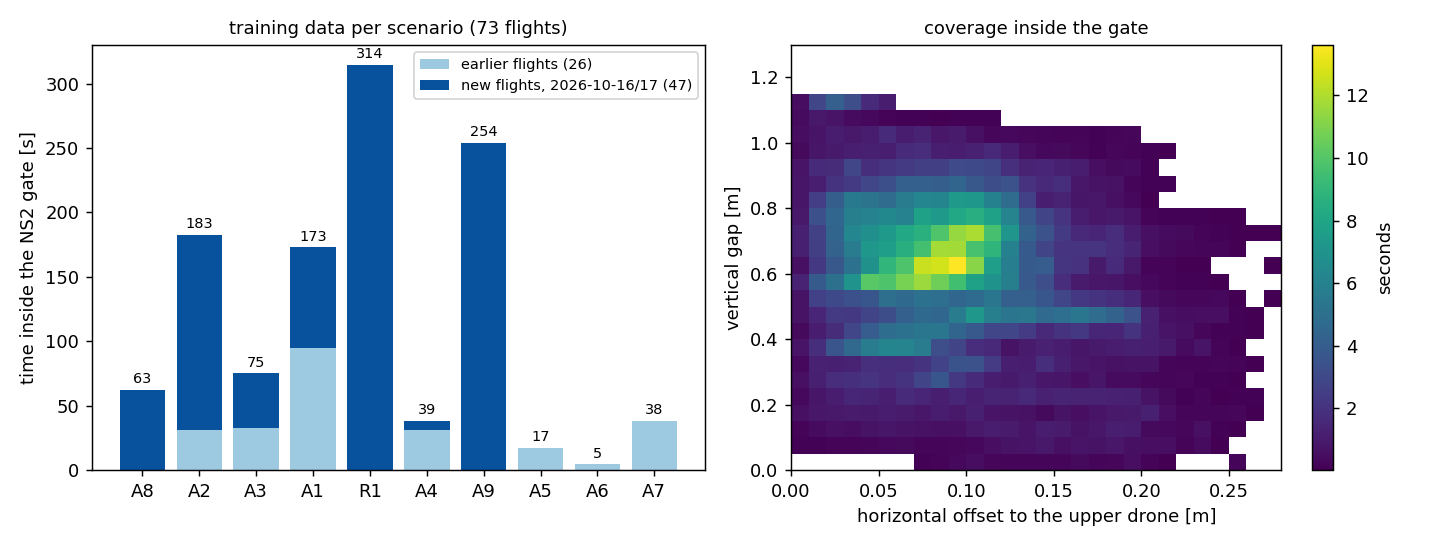
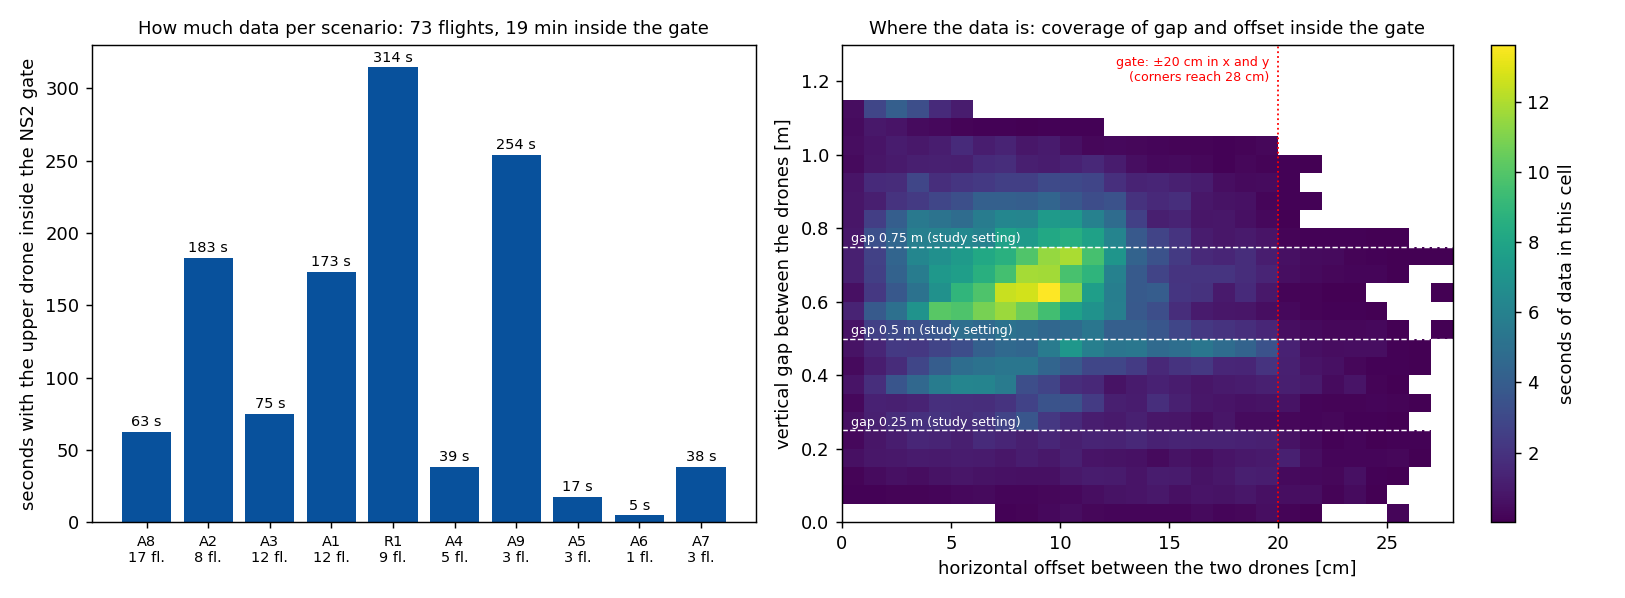
Meeting doc: std whiskers and band, plot-method explanations, section 5 as one table, short questions and next steps

Changed region(s): [[0.0, 0.0311, 0.9846, 0.9652], [0.0, 0.0934, 0.0615, 0.7161]]

diff --git a/experiments/analysis/ns2_v2_data_summary.py b/experiments/analysis/ns2_v2_data_summary.py
@@ -16,24 +16,28 @@ for e in man:
     g = d[gate]; allg.append(pd.DataFrame(dict(scenario=e["scenario"], new=new, z0=g.z0.values, r0=g.r0.values)))
 R = pd.DataFrame(rows); G = pd.concat(allg)
 WHAT = {"A8": ("two drones swap sides (crossing)", "dz 0.25 / 0.5 / 0.75 m × peak speed 0.1–0.5 m/s"), "A2": ("stacked circle, radius 0.40 m", "dz 0.5 m × speed 0.1–0.5 m/s"),
-        "A3": ("static top drone, bottom shuttles under it", "dz 0.5 m × speed 0.1–0.5 m/s (+ earlier flights)"), "A1": ("stacked hold", "dz 0.25 / 0.375 / 0.5 / 0.625 / 0.75 m"),
+        "A3": ("static top drone, bottom shuttles under it", "dz 0.5 m × speed 0.1–0.5 m/s"), "A1": ("stacked hold", "dz 0.25 / 0.375 / 0.5 / 0.625 / 0.75 m"),
         "R1": ("random waypoints, stack-biased", "9 seeds, bias 0.7, dz 0.25–0.75 m"), "A4": ("bottom offset sideways, shuttles along a line", "offset 0–0.15 m, dz 0.25–0.75 m, speed 0.3–0.5 m/s"),
-        "A9": ("nine A4 settings chained in one flight", "dz 0.25 / 0.5 / 0.75 × offset 0 / 0.1 / 0.15 m"), "A5": ("reverse circle (earlier flights)", "earlier data only"),
-        "A6": ("(earlier flight)", "earlier data only"), "A7": ("descend through the lower drone (earlier flights)", "earlier data only")}
-L = ["| Scenario | What it is | Settings covered | Flights (new + earlier) | Flight time | Time in the NS2 gate |", "|---|---|---|---|---|---|"]
+        "A9": ("nine A4 settings chained in one flight", "dz 0.25 / 0.5 / 0.75 × offset 0 / 0.1 / 0.15 m"), "A5": ("reverse circle (stacked, counter-moving)", "circle radius 0.40 m"),
+        "A6": ("high-risk setting (single flight)", "1 flight"), "A7": ("upper drone descends through the lower one", "gap 1.1 → 0.1 m")}
+L = ["| Scenario | What it is | Settings covered | Flights | Flight time | Time in the NS2 gate |", "|---|---|---|---|---|---|"]
 for sc in ["A8", "A2", "A3", "A1", "R1", "A4", "A9", "A5", "A6", "A7"]:
     r = R[R.scenario == sc]; 
     if r.empty: continue
-    n_new, n_old = int(r.new.sum()), int((~r.new).sum())
-    L.append(f"| {sc} | {WHAT[sc][0]} | {WHAT[sc][1]} | {n_new + n_old} ({n_new} + {n_old}) | {r.flight_s.sum() / 60:.1f} min | {r.gate_s.sum():.0f} s |")
-L.append(f"| **all** | | | **{len(R)}** ({int(R.new.sum())} + {int((~R.new).sum())}) | **{R.flight_s.sum() / 60:.1f} min** | **{R.gate_s.sum():.0f} s** |")
+    L.append(f"| {sc} | {WHAT[sc][0]} | {WHAT[sc][1]} | {len(r)} | {r.flight_s.sum() / 60:.1f} min | {r.gate_s.sum():.0f} s |")
+L.append(f"| **all** | | | **{len(R)}** | **{R.flight_s.sum() / 60:.1f} min** | **{R.gate_s.sum():.0f} s** |")
 print("\n".join(L)); print("gap in the gate: median %.2f m, 5-95 %% %.2f–%.2f m; lateral offset in the gate: median %.3f m" % (G.z0.median(), G.z0.quantile(.05), G.z0.quantile(.95), G.r0.median()))
 Path(REPO / "experiments/results/ns2_v2_data_summary.md").write_text("\n".join(L) + "\n")
-fig, ax = plt.subplots(1, 2, figsize=(11, 4.2)); scs = [s for s in ["A8", "A2", "A3", "A1", "R1", "A4", "A9", "A5", "A6", "A7"] if s in set(R.scenario)]
-new = [R[(R.scenario == s) & R.new].gate_s.sum() for s in scs]; old = [R[(R.scenario == s) & ~R.new].gate_s.sum() for s in scs]
-ax[0].bar(scs, old, color="#9ecae1", label="earlier flights (26)"); ax[0].bar(scs, new, bottom=old, color="#08519c", label="new flights, 2026-10-16/17 (47)")
-for i, (o, n) in enumerate(zip(old, new)): ax[0].text(i, o + n + 5, f"{o + n:.0f}", ha="center", fontsize=8)
-ax[0].set_ylabel("time inside the NS2 gate [s]"); ax[0].set_title("training data per scenario (73 flights)", fontsize=10); ax[0].legend(fontsize=8)
-h = ax[1].hist2d(G.r0, G.z0, bins=[np.linspace(0, 0.28, 29), np.linspace(0, 1.3, 27)], weights=np.full(len(G), DT), cmap="viridis", cmin=0.01)
-fig.colorbar(h[3], ax=ax[1], label="seconds"); ax[1].set_xlabel("horizontal offset to the upper drone [m]"); ax[1].set_ylabel("vertical gap [m]"); ax[1].set_title("coverage inside the gate", fontsize=10)
+fig, ax = plt.subplots(1, 2, figsize=(12.5, 4.6), gridspec_kw={"width_ratios": [1, 1.15]})
+scs = [x for x in ["A8", "A2", "A3", "A1", "R1", "A4", "A9", "A5", "A6", "A7"] if x in set(R.scenario)]
+vals = [R[R.scenario == x].gate_s.sum() for x in scs]; ns = [int((R.scenario == x).sum()) for x in scs]
+ax[0].bar(range(len(scs)), vals, color="#08519c")
+for i_, (v_, n_) in enumerate(zip(vals, ns)): ax[0].text(i_, v_ + 4, f"{v_:.0f} s", ha="center", fontsize=8)
+ax[0].set_xticks(range(len(scs))); ax[0].set_xticklabels([f"{x}\n{n_} fl." for x, n_ in zip(scs, ns)], fontsize=8)
+ax[0].set_ylabel("seconds with the upper drone inside the NS2 gate"); ax[0].set_title(f"How much data per scenario: {len(R)} flights, {R.gate_s.sum() / 60:.0f} min inside the gate", fontsize=10)
+h = ax[1].hist2d(G.r0 * 100, G.z0, bins=[np.linspace(0, 28, 29), np.linspace(0, 1.3, 27)], weights=np.full(len(G), DT), cmap="viridis", cmin=0.01)
+cb = fig.colorbar(h[3], ax=ax[1]); cb.set_label("seconds of data in this cell")
+for dz_ in (0.25, 0.5, 0.75): ax[1].axhline(dz_, color="w", ls="--", lw=.8); ax[1].text(0.4, dz_ + 0.012, f"gap {dz_} m (study setting)", color="w", ha="left", fontsize=7)
+ax[1].axvline(20, color="r", ls=":", lw=1); ax[1].text(19.6, 1.27, "gate: ±20 cm in x and y\n(corners reach 28 cm)", color="r", ha="right", va="top", fontsize=7)
+ax[1].set_xlabel("horizontal offset between the two drones [cm]"); ax[1].set_ylabel("vertical gap between the drones [m]"); ax[1].set_title("Where the data is: coverage of gap and offset inside the gate", fontsize=10)
 fig.tight_layout(); fig.savefig(REPO / "docs/meetings/assets/2026-10-19/ns2_v2_data.png", dpi=130)

diff --git a/experiments/analysis/build_meeting_results.py b/experiments/analysis/build_meeting_results.py
@@ -5,7 +5,7 @@ import json
 from pathlib import Path
 REPO = Path(__file__).resolve().parents[2]
 S = json.load(open(REPO / "experiments/results/unified_overview_2026-10-20/summary.json")); a8, a1, a4 = S["A8"], S["A1"], S["A4"]
-p = REPO / "docs/meetings/2026-10-22.md"; m = p.read_text(); tail = m[m.index("## 5. NS2 v2: what was flown"):]
+p = REPO / "docs/meetings/2026-10-22.md"; m = p.read_text(); tail = ""
 def c(s, k): d = a4[k][s]; return f"{d['mean']:.1f} cm (n={d['n']})" if d["n"] else "–"
 def f(x, sign=False): return (f"{x:+.1f}" if sign else f"{x:.1f}").replace("-", "−")
 a8n = sum(a8[k]['n'] for k in a8); a1n = sum(a1[k]['n'] for k in a1); a4n = sum(a4[o][k]['n'] for o in a4 for k in a4[o])
@@ -43,7 +43,7 @@ Notation: `z` = measured height, `z_cmd` = commanded height, `e_z = z − z_cmd`
 
 ![A8 dip, A1 mean z error and A4 z RMS per strategy](assets/2026-10-19/overview.png)
 
-- Pilot data: n = 3–7 per cell, one lab, two drones; the spread between flights is shown as dots (A8, A1) and error bars (A4).
+- Pilot data: n = 3–7 per cell, one lab, two drones. Bars = mean over flights, whisker = ± std between flights, dots = single flights (A4: whiskers only).
 - S3 A8: two further flights on a draining battery are excluded.
 - Full tables: `docs/tree_comparison_2026-10-19.md` (§9), per-flight tables `docs/lab_sessions/2026-10-20.md`.
 
@@ -57,7 +57,8 @@ Notation: `z` = measured height, `z_cmd` = commanded height, `e_z = z − z_cmd`
 
 ![height error around the crossing, mean over the crossings per strategy (all flights)](assets/2026-10-19/A8_crossing_profile.png)
 
-- Crossing dip: lowest z error of a crossing, relative to the steady offset (negative = too low).
+- **How the profile plot is made:** all A8 flights of a strategy, 4 crossings each; for every crossing the z error from −2 to +2 s around the zero-crossing of y, steady offset of that flight removed. Thick line = mean over all crossings (n flights × 4), shaded = ± 1 std between crossings.
+- **Table and bars:** crossing dip = lowest point of a crossing, averaged per flight; mean = over flights, std = between flights (bars: whiskers = std, dots = flights).
 - S1 has the largest spread: its fourth flight ran at 3.4 V loaded and dipped −12.4 cm; the other three −6.3 … −8.1 cm.
 - Only the INDI strategies use the full motor range (100 %).
 
@@ -71,6 +72,7 @@ Notation: `z` = measured height, `z_cmd` = commanded height, `e_z = z − z_cmd`
 
 ![A1 hold: z error over time per strategy, and mean z error per strategy (all flights)](assets/2026-10-19/A1_comparison.png)
 
+- **How the plot is made:** left: z error of every flight over the 15 s hold (window 2–15 s of the flight, time zero = start of the hold); thick line = mean over the strategy's flights at each time, shaded = ± 1 std between flights. Right: mean z error of each flight (dots), bar = mean over flights, whisker = std between flights.
 - Geometric strategies sag in the hold and tilt up to 42°; NS2 halves the sag.
 - S3 starts about +13 cm high (takeoff overshoot, gone after ~4 s).
 
@@ -87,7 +89,31 @@ z RMS in cm, mean ± std over flights (n):
 - Offset 0.0 was dropped (it repeats A1 and A8).
 
 """
-old_fbl = [l for l in tail.split("\n") if l.startswith("- **FBL controller follow-up questions/missing parts:**")]
+old_fbl = []
+_ = [l for l in tail.split("\n") if l.startswith("- **FBL controller follow-up questions/missing parts:**")]
 if old_fbl:
     tail = tail.replace(old_fbl[0], "- **FBL controller (part of the study):** desk part of the port done (own fit, simulation, C code tested against the authors' code, firmware branch built, not flown yet); waiting for the authors' training script and flight gains")
+tail = """## 5. NS2 v2: what was flown
+- All flights together (73), geometric controller, labels from the deck RPM. Gate: upper drone above and within 0.2 m in x and y, where the network acts.
+
+""" + (REPO / "experiments/results/ns2_v2_data_summary.md").read_text().strip().replace("## 5. NS2 v2: what was flown\n", "") + """
+
+![NS2 v2 data: gate time per scenario (left), coverage of vertical gap and horizontal offset (right)](assets/2026-10-19/ns2_v2_data.png)
+
+- **Left:** seconds inside the gate per scenario. R1, A9, A2, A1 give most of it.
+- **Right:** seconds of data per cell, horizontal offset (x) against vertical gap (y). Dashed lines = study gaps 0.25 / 0.5 / 0.75 m; red dotted = gate edge (±20 cm in x and y, corners reach 28 cm).
+- Vertical gap in the gate: median 0.62 m; horizontal offset: median 0.09 m.
+- Leave-one-flight-out: 69 of 73 flights pass; new flights fit better than v1 on 47 of 47.
+
+---
+
+## Questions:
+- **NS2 execution context:** today inline in the controller, 100 Hz, 526 µs = 26 % of the 2 ms slot. Your idea: separate low-priority task + queue. I did not find it in any repo — which one did you mean?
+- **Decision:** keep inline for the two-drone study, or parallel task now?
+
+## Next Steps:
+- **Study:** freeze protocol, start tier-1 two-drone study, then three vehicles
+- **Hardware:** new drone pair, NS2 frozen
+- **FBL (part of the study):** desk part done, waiting for the authors' training script and gains
+"""
 p.write_text(head + tail)

diff --git a/experiments/analysis/unified_plots.py b/experiments/analysis/unified_plots.py
@@ -26,7 +26,7 @@ for s in ORDER:
     prof = np.array(prof); m, sd = prof.mean(0), prof.std(0); n = sum(1 for r, _ in a8 if r["name"] == s)
     ax.plot(tau, m, color=COL[s], lw=2, label=f"{LAB[s]} (n={n} flights, {len(prof)} crossings)"); ax.fill_between(tau, m - sd, m + sd, color=COL[s], alpha=.12)
 ax.axvline(0, color="k", lw=.5); ax.axhline(0, color="k", lw=.5); ax.set_xlabel("time from the crossing [s]"); ax.set_ylabel("bottom z error, steady offset removed [cm]"); ax.legend(fontsize=8, loc="lower left")
-ax.set_title("A8 swap, dz 0.5 m, 0.5 m/s: height error around the crossing (mean ± std over the crossings)", fontsize=9); fig.tight_layout(); fig.savefig(FIG / "A8_crossing_profile.png", dpi=130)
+ax.set_title("A8 swap, dz 0.5 m, 0.5 m/s: height error around the crossing\nthick line = mean over all crossings of the strategy, shaded band = ± 1 std between crossings", fontsize=9); fig.tight_layout(); fig.savefig(FIG / "A8_crossing_profile.png", dpi=130)
 # ---- A1
 a1 = []
 for bank, res in (("bank_a1clean_2026-10-19", "a1_2026-10-19"), ("bank_pilot2_2026-10-20", "pilot2_2026-10-20"), ("bank_pilot3_2026-10-20", "pilot3_2026-10-20"), ("bank_pilot5_2026-10-20", "pilot5_2026-10-20"), ("bank_video_2026-10-20", "video_2026-10-20")):
@@ -37,11 +37,11 @@ for s in ORDER:
     for r, p in a1:
         if r["strategy"] != s: continue
         t, ez, _ = bottom_ez(p); prof.append(100 * np.interp(tg, t, ez))
-    prof = np.array(prof); ax[0].plot(tg, prof.mean(0), color=COL[s], lw=2, label=f"{LAB[s]} (n={len(prof)})"); ax[0].fill_between(tg, prof.min(0), prof.max(0), color=COL[s], alpha=.12)
-ax[0].axhline(0, color="k", lw=.5); ax[0].set_xlabel("time in the hold [s]"); ax[0].set_ylabel("bottom z error [cm] (mean, band = min..max over flights)"); ax[0].legend(fontsize=8, loc="upper right"); ax[0].set_title("A1 stacked hold: z error over time", fontsize=10)
+    prof = np.array(prof); m_, sd_ = prof.mean(0), prof.std(0); ax[0].plot(tg, m_, color=COL[s], lw=2, label=f"{LAB[s]} (n={len(prof)} flights)"); ax[0].fill_between(tg, m_ - sd_, m_ + sd_, color=COL[s], alpha=.15)
+ax[0].axhline(0, color="k", lw=.5); ax[0].set_xlabel("time in the hold [s]"); ax[0].set_ylabel("bottom z error [cm]"); ax[0].legend(fontsize=8, loc="upper right"); ax[0].set_title("A1 stacked hold: z error over time", fontsize=10)
 for i, s in enumerate(ORDER):
-    v = [r["z_mean_cm"] for r, _ in a1 if r["strategy"] == s]; ax[1].bar(i, np.mean(v), color=COL[s], alpha=.4, width=.6)
+    v = [r["z_mean_cm"] for r, _ in a1 if r["strategy"] == s]; ax[1].bar(i, np.mean(v), color=COL[s], alpha=.4, width=.6, yerr=np.std(v, ddof=1), capsize=4, error_kw=dict(ecolor="k", lw=1.2))
     ax[1].scatter([i + (j - (len(v) - 1) / 2) * .07 for j in range(len(v))], v, color=COL[s], s=18, zorder=3)
-ax[1].set_xticks(range(4)); ax[1].set_xticklabels([f"{LAB[s].replace(' + ', chr(10) + '+ ').replace('geometric', 'geom.')}\n{np.mean([r['z_mean_cm'] for r, _ in a1 if r['strategy'] == s]):+.1f} cm" for s in ORDER], fontsize=7.5)
-ax[1].axhline(0, color="k", lw=.5); ax[1].set_ylabel("mean z error in the hold [cm] (dots = flights)"); ax[1].set_title("mean per strategy", fontsize=10)
-fig.suptitle("A1 stacked hold, dz 0.5 m: all pilot flights (uSD only)", fontsize=9); fig.tight_layout(); fig.savefig(FIG / "A1_comparison.png", dpi=130); print("ok", {s: sum(1 for r, _ in a1 if r["strategy"] == s) for s in ORDER}, {s: sum(1 for r, _ in a8 if r["name"] == s) for s in ORDER})
+ax[1].set_xticks(range(4)); ax[1].set_xticklabels([f"{LAB[s].replace(' + ', chr(10) + '+ ').replace('geometric', 'geom.')}\n{np.mean([r['z_mean_cm'] for r, _ in a1 if r['strategy'] == s]):+.1f} ± {np.std([r['z_mean_cm'] for r, _ in a1 if r['strategy'] == s], ddof=1):.1f} cm" for s in ORDER], fontsize=7.5)
+ax[1].axhline(0, color="k", lw=.5); ax[1].set_ylabel("mean z error in the hold [cm]\nbar = mean, whisker = ± std between flights, dots = flights", fontsize=8); ax[1].set_title("mean per strategy", fontsize=10)
+fig.suptitle("A1 stacked hold, dz 0.5 m, all pilot flights (uSD only). Left: per strategy, thick line = mean over its flights at each time, shaded band = ± 1 std between flights", fontsize=9); fig.tight_layout(); fig.savefig(FIG / "A1_comparison.png", dpi=130); print("ok", {s: sum(1 for r, _ in a1 if r["strategy"] == s) for s in ORDER}, {s: sum(1 for r, _ in a8 if r["name"] == s) for s in ORDER})

diff --git a/experiments/analysis/unified_overview.py b/experiments/analysis/unified_overview.py
@@ -41,11 +41,11 @@ for o in (0.05, 0.10, 0.15):
 fig, ax = plt.subplots(1, 3, figsize=(14, 4.2), gridspec_kw={"width_ratios": [1, 1, 1.4]})
 for i, s in enumerate(ORDER):
     for k, key, sgn in ((0, "A8", 1), (1, "A1", 1)):
-        d = S[key][s]; ax[k].bar(i, d["mean"], color=COL[s], alpha=.4, width=.6)
+        d = S[key][s]; ax[k].bar(i, d["mean"], color=COL[s], alpha=.4, width=.6, yerr=d["std"], capsize=4, error_kw=dict(ecolor="k", lw=1.2))
         pts = d["per_flight"]; ax[k].scatter([i + (j - (len(pts) - 1) / 2) * .07 for j in range(len(pts))], pts, color=COL[s], s=18, zorder=3)
-for k, (key, t, y) in enumerate((("A8", "A8 swap: height dip at the crossing", "z error at the crossing [cm]"), ("A1", "A1 stacked hold: mean height error", "mean z error in the hold [cm]"))):
-    M = [S[key][s]["mean"] for s in ORDER]; N = [S[key][s]["n"] for s in ORDER]
-    ax[k].set_xticks(range(4)); ax[k].set_xticklabels([f"{LAB[s].replace(' + ', chr(10) + '+ ').replace('geometric', 'geom.')}\n{m:+.1f} cm\n(n={n})" for s, m, n in zip(ORDER, M, N)], fontsize=7.5); ax[k].axhline(0, color="k", lw=.6); ax[k].set_title(t, fontsize=10); ax[k].set_ylabel(y, fontsize=8)
+for k, (key, t, y) in enumerate((("A8", "A8 swap: height dip at the crossing", "dip per flight [cm]"), ("A1", "A1 stacked hold: mean height error", "mean z error in the hold [cm]"))):
+    M = [S[key][s]["mean"] for s in ORDER]; N = [S[key][s]["n"] for s in ORDER]; SD = [S[key][s]["std"] for s in ORDER]
+    ax[k].set_xticks(range(4)); ax[k].set_xticklabels([f"{LAB[s].replace(' + ', chr(10) + '+ ').replace('geometric', 'geom.')}\n{m:+.1f} ± {sd:.1f} cm\n(n={n} flights)" for s, m, sd, n in zip(ORDER, M, SD, N)], fontsize=7.5); ax[k].axhline(0, color="k", lw=.6); ax[k].set_title(t, fontsize=10); ax[k].set_ylabel(y + "\nbar = mean, black whisker = ± std between flights, dots = flights", fontsize=7.5)
 w = .2
 for j, s in enumerate(ORDER):
     xs, ys, es = [], [], []

diff --git a/docs/meetings/2026-10-22.md b/docs/meetings/2026-10-22.md
@@ -26,7 +26,7 @@ Notation: `z` = measured height, `z_cmd` = commanded height, `e_z = z − z_cmd`
 
 ![A8 dip, A1 mean z error and A4 z RMS per strategy](assets/2026-10-19/overview.png)
 
-- Pilot data: n = 3–7 per cell, one lab, two drones; the spread between flights is shown as dots (A8, A1) and error bars (A4).
+- Pilot data: n = 3–7 per cell, one lab, two drones. Bars = mean over flights, whisker = ± std between flights, dots = single flights (A4: whiskers only).
 - S3 A8: two further flights on a draining battery are excluded.
 - Full tables: `docs/tree_comparison_2026-10-19.md` (§9), per-flight tables `docs/lab_sessions/2026-10-20.md`.
 
@@ -40,7 +40,8 @@ Notation: `z` = measured height, `z_cmd` = commanded height, `e_z = z − z_cmd`
 
 ![height error around the crossing, mean over the crossings per strategy (all flights)](assets/2026-10-19/A8_crossing_profile.png)
 
-- Crossing dip: lowest z error of a crossing, relative to the steady offset (negative = too low).
+- **How the profile plot is made:** all A8 flights of a strategy, 4 crossings each; for every crossing the z error from −2 to +2 s around the zero-crossing of y, steady offset of that flight removed. Thick line = mean over all crossings (n flights × 4), shaded = ± 1 std between crossings.
+- **Table and bars:** crossing dip = lowest point of a crossing, averaged per flight; mean = over flights, std = between flights (bars: whiskers = std, dots = flights).
 - S1 has the largest spread: its fourth flight ran at 3.4 V loaded and dipped −12.4 cm; the other three −6.3 … −8.1 cm.
 - Only the INDI strategies use the full motor range (100 %).
 
@@ -54,6 +55,7 @@ Notation: `z` = measured height, `z_cmd` = commanded height, `e_z = z − z_cmd`
 
 ![A1 hold: z error over time per strategy, and mean z error per strategy (all flights)](assets/2026-10-19/A1_comparison.png)
 
+- **How the plot is made:** left: z error of every flight over the 15 s hold (window 2–15 s of the flight, time zero = start of the hold); thick line = mean over the strategy's flights at each time, shaded = ± 1 std between flights. Right: mean z error of each flight (dots), bar = mean over flights, whisker = std between flights.
 - Geometric strategies sag in the hold and tilt up to 42°; NS2 halves the sag.
 - S3 starts about +13 cm high (takeoff overshoot, gone after ~4 s).
 
@@ -72,40 +74,36 @@ z RMS in cm, mean ± std over flights (n):
 - Offset 0.0 was dropped (it repeats A1 and A8).
 
 ## 5. NS2 v2: what was flown
-- Data collection 2026-10-16/17 on the geometric controller (labels from the deck RPM) plus the 26 earlier flights.
-- Gate: the upper drone is above and within 0.2 m horizontally, where the network acts.
+- All flights together (73), geometric controller, labels from the deck RPM. Gate: upper drone above and within 0.2 m in x and y, where the network acts.
 
-| Scenario | What it is | Settings covered | Flights (new + earlier) | Flight time | Time in the NS2 gate |
+| Scenario | What it is | Settings covered | Flights | Flight time | Time in the NS2 gate |
 |---|---|---|---|---|---|
-| A8 | two drones swap sides (crossing) | dz 0.25 / 0.5 / 0.75 m × peak speed 0.1–0.5 m/s | 17 (17 + 0) | 11.3 min | 63 s |
-| A2 | stacked circle, radius 0.40 m | dz 0.5 m × speed 0.1–0.5 m/s | 8 (6 + 2) | 3.0 min | 183 s |
-| A3 | static top drone, bottom shuttles under it | dz 0.5 m × speed 0.1–0.5 m/s (+ earlier flights) | 12 (5 + 7) | 7.1 min | 75 s |
-| A1 | stacked hold | dz 0.25 / 0.375 / 0.5 / 0.625 / 0.75 m | 12 (6 + 6) | 2.9 min | 173 s |
-| R1 | random waypoints, stack-biased | 9 seeds, bias 0.7, dz 0.25–0.75 m | 9 (9 + 0) | 7.5 min | 314 s |
-| A4 | bottom offset sideways, shuttles along a line | offset 0–0.15 m, dz 0.25–0.75 m, speed 0.3–0.5 m/s | 5 (1 + 4) | 1.6 min | 39 s |
-| A9 | nine A4 settings chained in one flight | dz 0.25 / 0.5 / 0.75 × offset 0 / 0.1 / 0.15 m | 3 (3 + 0) | 8.8 min | 254 s |
-| A5 | reverse circle (earlier flights) | earlier data only | 3 (0 + 3) | 0.9 min | 17 s |
-| A6 | (earlier flight) | earlier data only | 1 (0 + 1) | 0.4 min | 5 s |
-| A7 | descend through the lower drone (earlier flights) | earlier data only | 3 (0 + 3) | 0.6 min | 38 s |
-| **all** | | | **73** (47 + 26) | **44.2 min** | **1162 s** |
+| A8 | two drones swap sides (crossing) | dz 0.25 / 0.5 / 0.75 m × peak speed 0.1–0.5 m/s | 17 | 11.3 min | 63 s |
+| A2 | stacked circle, radius 0.40 m | dz 0.5 m × speed 0.1–0.5 m/s | 8 | 3.0 min | 183 s |
+| A3 | static top drone, bottom shuttles under it | dz 0.5 m × speed 0.1–0.5 m/s | 12 | 7.1 min | 75 s |
+| A1 | stacked hold | dz 0.25 / 0.375 / 0.5 / 0.625 / 0.75 m | 12 | 2.9 min | 173 s |
+| R1 | random waypoints, stack-biased | 9 seeds, bias 0.7, dz 0.25–0.75 m | 9 | 7.5 min | 314 s |
+| A4 | bottom offset sideways, shuttles along a line | offset 0–0.15 m, dz 0.25–0.75 m, speed 0.3–0.5 m/s | 5 | 1.6 min | 39 s |
+| A9 | nine A4 settings chained in one flight | dz 0.25 / 0.5 / 0.75 × offset 0 / 0.1 / 0.15 m | 3 | 8.8 min | 254 s |
+| A5 | reverse circle (stacked, counter-moving) | circle radius 0.40 m | 3 | 0.9 min | 17 s |
+| A6 | high-risk setting (single flight) | 1 flight | 1 | 0.4 min | 5 s |
+| A7 | upper drone descends through the lower one | gap 1.1 → 0.1 m | 3 | 0.6 min | 38 s |
+| **all** | | | **73** | **44.2 min** | **1162 s** |
 
-![NS2 v2 training data: gate time per scenario and coverage of vertical gap and horizontal offset](assets/2026-10-19/ns2_v2_data.png)
+![NS2 v2 data: gate time per scenario (left), coverage of vertical gap and horizontal offset (right)](assets/2026-10-19/ns2_v2_data.png)
 
-- Vertical gap inside the gate: median 0.62 m (5–95 %: 0.22–0.93 m); horizontal offset: median 0.09 m.
-- Leave-one-flight-out: 69 of 73 flights pass; the new flights fit better than with v1 on 47 of 47; held-out random-waypoint flights 9 of 9, chained offset flights 3 of 3.
-- Per-flight list: `docs/ns2_training_data_overview_2026-10-17.md`.
+- **Left:** seconds inside the gate per scenario. R1, A9, A2, A1 give most of it.
+- **Right:** seconds of data per cell, horizontal offset (x) against vertical gap (y). Dashed lines = study gaps 0.25 / 0.5 / 0.75 m; red dotted = gate edge (±20 cm in x and y, corners reach 28 cm).
+- Vertical gap in the gate: median 0.62 m; horizontal offset: median 0.09 m.
+- Leave-one-flight-out: 69 of 73 flights pass; new flights fit better than v1 on 47 of 47.
 
 ---
 
 ## Questions:
-- **NS2 execution context: should the network run in its own loop (queue to the control loop)?**
-  - **Today:** inside the controller call, every 10th step (100 Hz), 526 µs worst case = 26 % of the 2 ms controller slot, motor command of that step delayed by the same amount
-  - **Your idea:** a low-priority task computes the network and hands the last value to the control loop through a queue, so the control path never waits and more neighbours do not slow it
-  - **Not found:** in the repositories I have (our firmware, IMRC firmware, NA-INDI, Neural-Swarm, crazyswarm2) the network runs inside the controller; which repository or file did you mean?
-  - **Estimate:** with 2 or 3 neighbours about 0.7 – 0.9 ms; plan: keep inline for the two-drone study, measure with injected neighbours before the three-vehicle phase
-  - **Question:** keep inline for now, or do you want the parallel task already for the two-drone study?
+- **NS2 execution context:** today inline in the controller, 100 Hz, 526 µs = 26 % of the 2 ms slot. Your idea: separate low-priority task + queue. I did not find it in any repo — which one did you mean?
+- **Decision:** keep inline for the two-drone study, or parallel task now?
 
 ## Next Steps:
-- **Freeze the study protocol and start the 2-drone comparative study (tier 1); 3 vehicles after that**
-- **Hardware:** new drone pair in use (bottom = drone with the RPM deck); NS2 stays frozen (no recollection)
-- **FBL controller (part of the study):** desk part of the port done (own fit, simulation, C code tested against the authors' code, firmware branch built, not flown yet); waiting for the authors' training script and flight gains
+- **Study:** freeze protocol, start tier-1 two-drone study, then three vehicles
+- **Hardware:** new drone pair, NS2 frozen
+- **FBL (part of the study):** desk part done, waiting for the authors' training script and gains

diff --git a/experiments/results/ns2_v2_data_summary.md b/experiments/results/ns2_v2_data_summary.md
@@ -1,13 +1,13 @@
-| Scenario | What it is | Settings covered | Flights (new + earlier) | Flight time | Time in the NS2 gate |
+| Scenario | What it is | Settings covered | Flights | Flight time | Time in the NS2 gate |
 |---|---|---|---|---|---|
-| A8 | two drones swap sides (crossing) | dz 0.25 / 0.5 / 0.75 m × peak speed 0.1–0.5 m/s | 17 (17 + 0) | 11.3 min | 63 s |
-| A2 | stacked circle, radius 0.40 m | dz 0.5 m × speed 0.1–0.5 m/s | 8 (6 + 2) | 3.0 min | 183 s |
-| A3 | static top drone, bottom shuttles under it | dz 0.5 m × speed 0.1–0.5 m/s (+ earlier flights) | 12 (5 + 7) | 7.1 min | 75 s |
-| A1 | stacked hold | dz 0.25 / 0.375 / 0.5 / 0.625 / 0.75 m | 12 (6 + 6) | 2.9 min | 173 s |
-| R1 | random waypoints, stack-biased | 9 seeds, bias 0.7, dz 0.25–0.75 m | 9 (9 + 0) | 7.5 min | 314 s |
-| A4 | bottom offset sideways, shuttles along a line | offset 0–0.15 m, dz 0.25–0.75 m, speed 0.3–0.5 m/s | 5 (1 + 4) | 1.6 min | 39 s |
-| A9 | nine A4 settings chained in one flight | dz 0.25 / 0.5 / 0.75 × offset 0 / 0.1 / 0.15 m | 3 (3 + 0) | 8.8 min | 254 s |
-| A5 | reverse circle (earlier flights) | earlier data only | 3 (0 + 3) | 0.9 min | 17 s |
-| A6 | (earlier flight) | earlier data only | 1 (0 + 1) | 0.4 min | 5 s |
-| A7 | descend through the lower drone (earlier flights) | earlier data only | 3 (0 + 3) | 0.6 min | 38 s |
-| **all** | | | **73** (47 + 26) | **44.2 min** | **1162 s** |
+| A8 | two drones swap sides (crossing) | dz 0.25 / 0.5 / 0.75 m × peak speed 0.1–0.5 m/s | 17 | 11.3 min | 63 s |
+| A2 | stacked circle, radius 0.40 m | dz 0.5 m × speed 0.1–0.5 m/s | 8 | 3.0 min | 183 s |
+| A3 | static top drone, bottom shuttles under it | dz 0.5 m × speed 0.1–0.5 m/s | 12 | 7.1 min | 75 s |
+| A1 | stacked hold | dz 0.25 / 0.375 / 0.5 / 0.625 / 0.75 m | 12 | 2.9 min | 173 s |
+| R1 | random waypoints, stack-biased | 9 seeds, bias 0.7, dz 0.25–0.75 m | 9 | 7.5 min | 314 s |
+| A4 | bottom offset sideways, shuttles along a line | offset 0–0.15 m, dz 0.25–0.75 m, speed 0.3–0.5 m/s | 5 | 1.6 min | 39 s |
+| A9 | nine A4 settings chained in one flight | dz 0.25 / 0.5 / 0.75 × offset 0 / 0.1 / 0.15 m | 3 | 8.8 min | 254 s |
+| A5 | reverse circle (stacked, counter-moving) | circle radius 0.40 m | 3 | 0.9 min | 17 s |
+| A6 | high-risk setting (single flight) | 1 flight | 1 | 0.4 min | 5 s |
+| A7 | upper drone descends through the lower one | gap 1.1 → 0.1 m | 3 | 0.6 min | 38 s |
+| **all** | | | **73** | **44.2 min** | **1162 s** |
